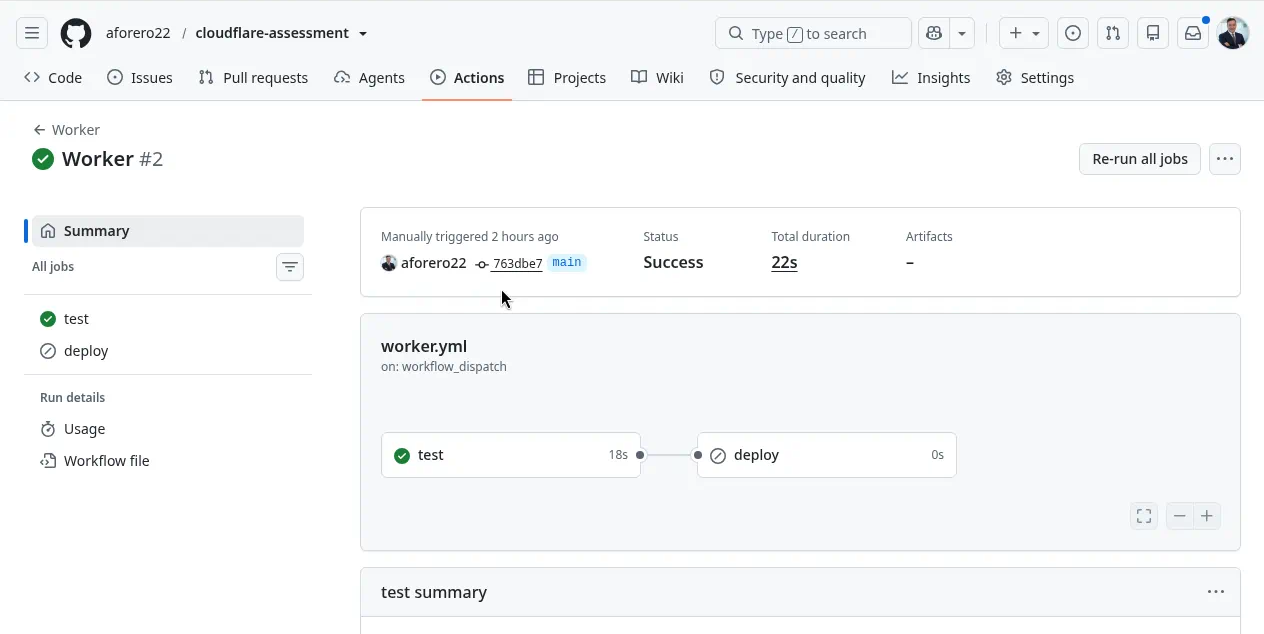
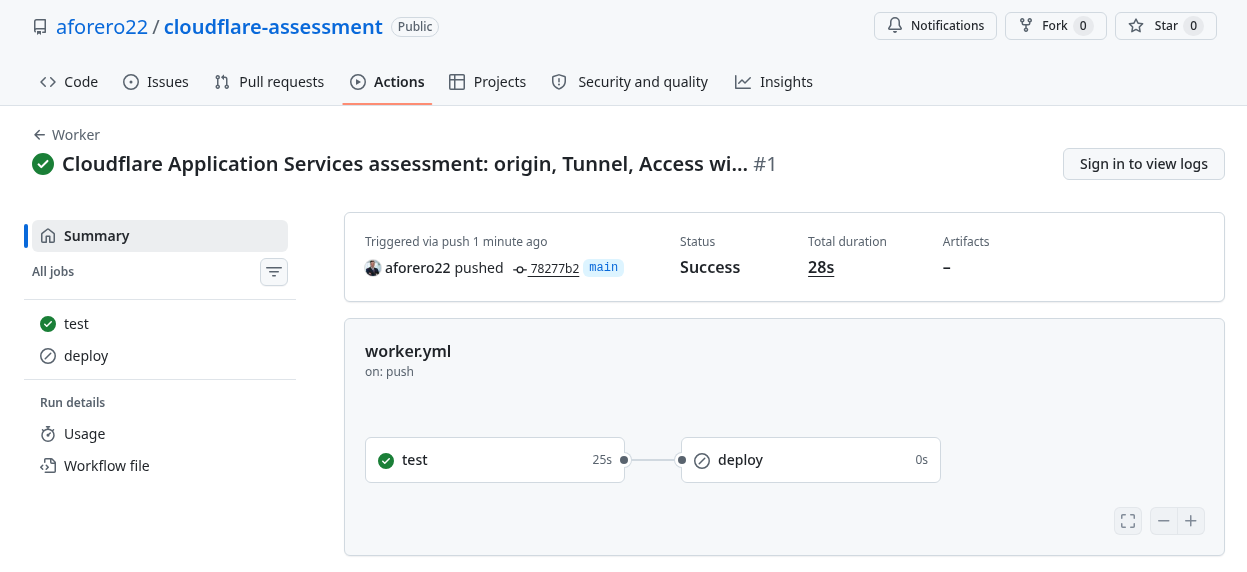
Screenshot 22: Worker CI run on the published repository

diff --git a/docs/screenshots/README.md b/docs/screenshots/README.md
@@ -27,7 +27,7 @@ Cloudflare account ID and the workers.dev subdomain are blurred.
 | `19-r2-bucket-settings.png` | R2 → `cf-assessment-flags` → Settings | r2.dev public URL disabled, no custom domains |
 | `20-azure-nsg-rules.png` | Azure Portal → `nsg-cf-origin` → Inbound rules | 22 from one admin /32 (blurred), 443 from Cloudflare ranges |
 | `21-r2-objects.png` | R2 → `cf-assessment-flags` → Objects | Flag objects with type `image/svg+xml` |
-| `22-github-actions.png` | GitHub → Actions | Worker workflow run green (lint + tests), deploy skipped (manual) |
+| `22-github-actions.png` | GitHub → Actions → Worker run #1 (public view) | Worker workflow green on the push of the clean repository history (lint + tests), deploy skipped (manual) |
 | `23-idp-github-login.png` | Browser → `https://tunnel.iforecast.es/secure` (no session) | Access login: *Sign in with GitHub*, or e-mail + *Send login code* |
 
 The country in `/secure` is computed per request from `request.cf.country`; the candidate's own login from
